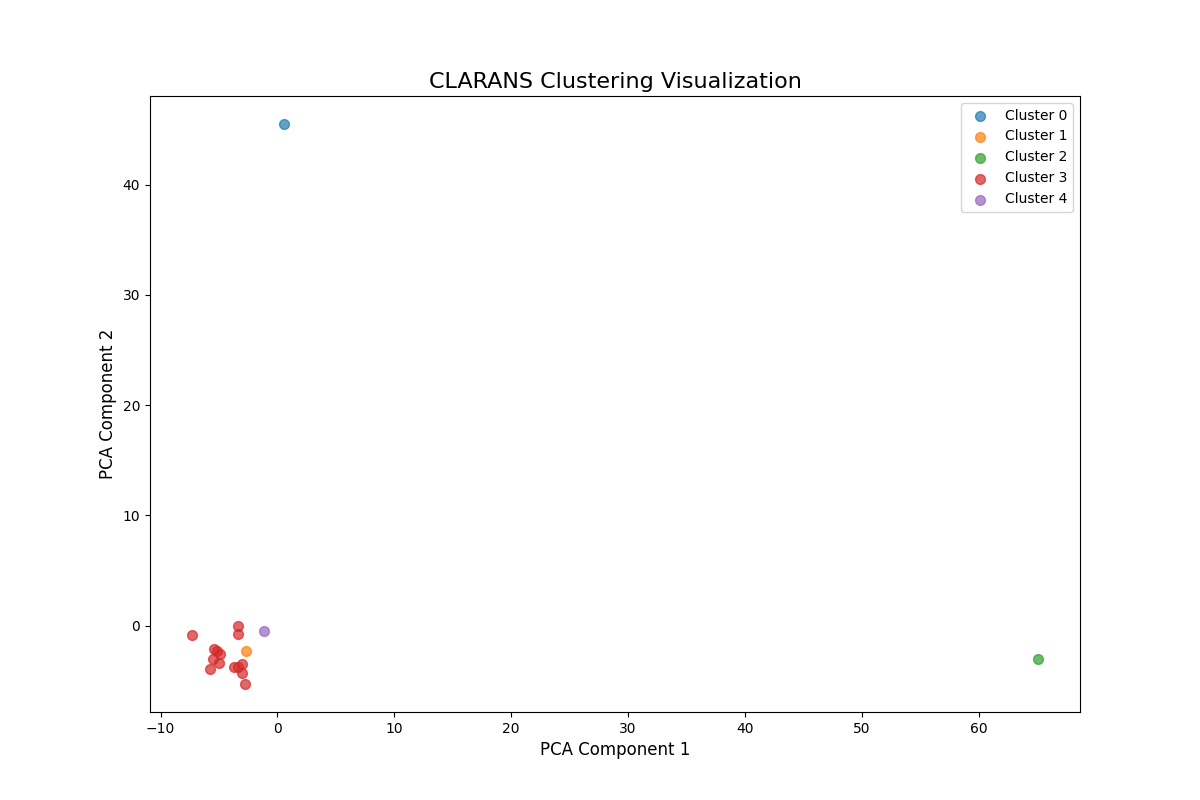
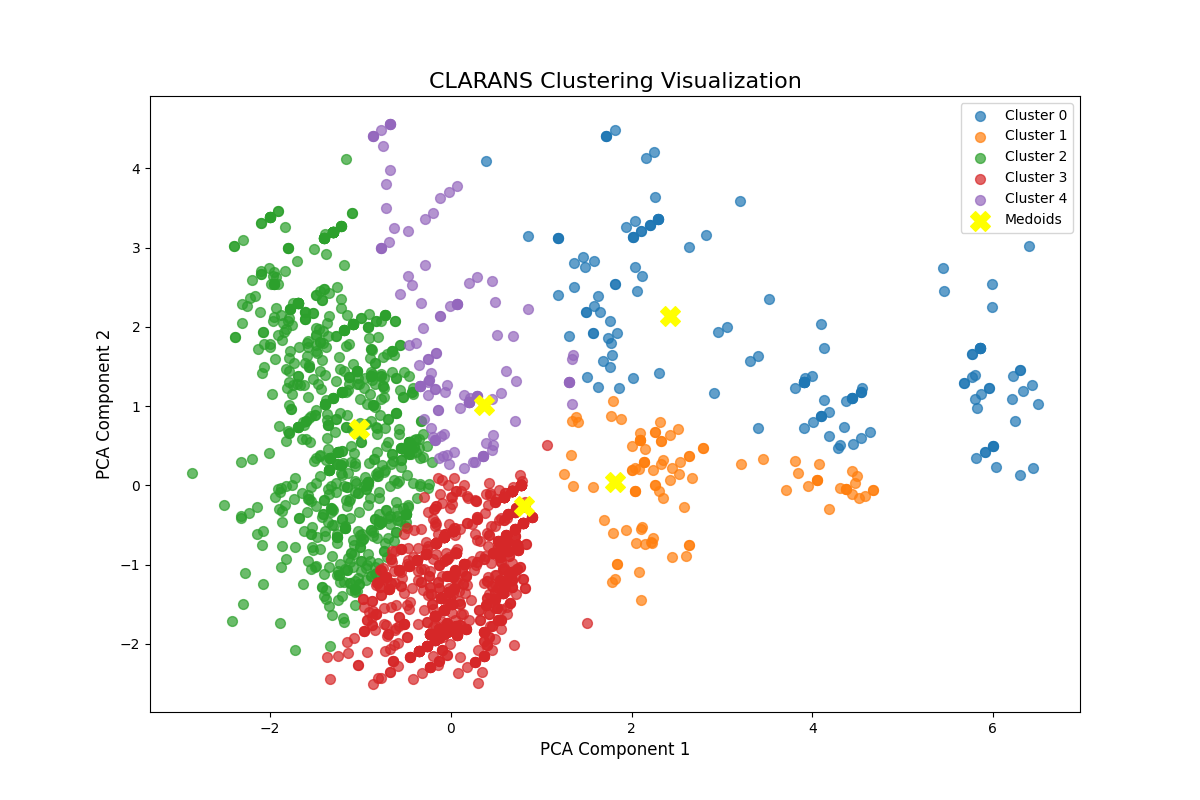
Change data, update csv

diff --git a/ClaranClustering(final).py b/ClaranClustering(final).py
@@ -7,56 +7,75 @@ import matplotlib.pyplot as plt
 from sklearn.decomposition import PCA
 from sklearn.preprocessing import StandardScaler
 
-# Đọc dữ liệu
-def load_data():
-    movies = pd.read_csv('./input/data_dat/movies.dat', sep='::', header=None, engine='python',
-                         names=['MovieID', 'Title', 'Genres'], encoding='ISO-8859-1')
-    ratings = pd.read_csv('./input/data_dat/ratings.dat', sep='::', header=None, engine='python',
-                          names=['UserID', 'MovieID', 'Rating', 'Timestamp'], encoding='ISO-8859-1')
-    users = pd.read_csv('./input/data_dat/users.dat', sep='::', header=None, engine='python',
-                        names=['UserID', 'Gender', 'Age', 'Occupation', 'Zip-code'], encoding='ISO-8859-1')
-
-    return movies, ratings, users
-
-movies, ratings, users = load_data()
-
-# Xử lý dữ liệu
-def preprocess_data(movies, ratings):
-    # Kết hợp movie với rating
-    data = ratings.merge(movies, on='MovieID')
-
-    # Giới hạn n dữ liệu sử dụng để tiến hành phân cụm (theo test hiện tại có thể xử lý 15000 dữ liệu trong 2 phút)
-    data = data.head(2000)
-
-    # Tạo pivot
-    pivot_table = data.pivot_table(index='UserID', columns='Title', values='Rating', fill_value=0)
-
-    # Standardize data
-    scaler = StandardScaler()
-    standardized_data = scaler.fit_transform(pivot_table.values)
-
-    return standardized_data
-#     return pivot_table
+# # Đọc dữ liệu
+# def load_data():
+#     movies = pd.read_csv('./input/data_dat/movies.dat', sep='::', header=None, engine='python',
+#                          names=['MovieID', 'Title', 'Genres'], encoding='ISO-8859-1')
+#     ratings = pd.read_csv('./input/data_dat/ratings.dat', sep='::', header=None, engine='python',
+#                           names=['UserID', 'MovieID', 'Rating', 'Timestamp'], encoding='ISO-8859-1')
+#     users = pd.read_csv('./input/data_dat/users.dat', sep='::', header=None, engine='python',
+#                         names=['UserID', 'Gender', 'Age', 'Occupation', 'Zip-code'], encoding='ISO-8859-1')
 #
-# pivot_table = preprocess_data(movies, ratings)
-# data_matrix = pivot_table.values
-data_matrix = preprocess_data(movies, ratings)
+#     return movies, ratings, users
+#
+# movies, ratings, users = load_data()
+
+#Hàm chuẩn hóa dữ liệu
+def preprocess_data(data):
+    scaler = StandardScaler()
+    return scaler.fit_transform(data)
+
+#Hàm giảm chiều dữ liệu
+def perform_pca(data, n_components=2):
+    pca = PCA(n_components=n_components)
+    return pca.fit_transform(data)
+
+df = pd.read_csv('./input/data_csv/clean_data_final.csv')
+data = df.drop(columns = ['Gender']).head(2000).values
+print(data[:20])
+
+scaler_data = preprocess_data(data)
+perform_pca_data = perform_pca(scaler_data)
+
+# # Xử lý dữ liệu
+# def preprocess_data(movies, ratings):
+#     # Kết hợp movie với rating
+#     data = ratings.merge(movies, on='MovieID')
+#
+#     # Giới hạn n dữ liệu sử dụng để tiến hành phân cụm (theo test hiện tại có thể xử lý 15000 dữ liệu trong 2 phút)
+#     data = data.head(2000)
+#
+#     # Tạo pivot
+#     pivot_table = data.pivot_table(index='UserID', columns='Title', values='Rating', fill_value=0)
+#
+#     # Standardize data
+#     scaler = StandardScaler()
+#     standardized_data = scaler.fit_transform(pivot_table.values)
+#
+#     return standardized_data
+# #     return pivot_table
+# #
+# # pivot_table = preprocess_data(movies, ratings)
+# # data_matrix = pivot_table.values
+# data_matrix = preprocess_data(movies, ratings)
 
 # Định nghĩa hàm sử dụng thuật toán Clarans
 def clarans_clustering(data, num_clusters, num_local, max_neighbors):
     # metric = distance_metric(type_metric.EUCLIDEAN)
-    clarans_instance = clarans(data.tolist(), num_clusters, num_local, max_neighbors)
+    # clarans_instance = clarans(data.tolist(), num_clusters, num_local, max_neighbors)
+    clarans_instance = clarans(perform_pca_data, num_clusters, num_local, max_neighbors)
     clarans_instance.process()
 
     clusters = clarans_instance.get_clusters()
-    centers = clarans_instance.get_medoids()
-    return clusters, centers
+    medoids = clarans_instance.get_medoids()
+    return clusters, medoids
 
 # Áp dụng Clarans
 num_clusters = 5
-num_local = 5
-max_neighbors = 10
-clusters, centers = clarans_clustering(data_matrix, num_clusters, num_local, max_neighbors)
+num_local = 1
+max_neighbors = 5
+# clusters, medoids = clarans_clustering(data_matrix, num_clusters, num_local, max_neighbors)
+clusters, medoids = clarans_clustering(perform_pca_data, num_clusters, num_local, max_neighbors)
 
 # Đánh giá phân cụm
 def evaluate_clustering(data, clusters):
@@ -71,7 +90,8 @@ def evaluate_clustering(data, clusters):
 
     return silhouette, calinski_harabasz, davies_bouldin, labels
 
-silhouette, calinski_harabasz, davies_bouldin, labels = evaluate_clustering(data_matrix, clusters)
+# silhouette, calinski_harabasz, davies_bouldin, labels = evaluate_clustering(data_matrix, clusters)
+silhouette, calinski_harabasz, davies_bouldin, labels = evaluate_clustering(perform_pca_data, clusters)
 
 # Visualization
 def plot_clusters(data, labels):
@@ -84,14 +104,20 @@ def plot_clusters(data, labels):
         cluster_data = reduced_data[labels == cluster_id]
         plt.scatter(cluster_data[:, 0], cluster_data[:, 1], label=f'Cluster {int(cluster_id)}', s=50, alpha=0.7)
 
+    medoids_points = np.array([perform_pca_data[i] for i in medoids])
+    plt.scatter(medoids_points[:, 0], medoids_points[:, 1], s=200, c='yellow', marker='X', label='Medoids')
+
     plt.title('CLARANS Clustering Visualization', fontsize=16)
     plt.xlabel('PCA Component 1', fontsize=12)
     plt.ylabel('PCA Component 2', fontsize=12)
+    # plt.xlim(-10, 10)
+    # plt.ylim(-10, 10)
     plt.legend(fontsize=10)
     plt.savefig('./output/png/clarans_clusters.png')
     plt.show()
 
-plot_clusters(data_matrix, labels)
+# plot_clusters(data_matrix, labels)
+plot_clusters(perform_pca_data, labels)
 
 # Hiển thị thông số đánh giá
 def display_metrics(silhouette, calinski_harabasz, davies_bouldin):
